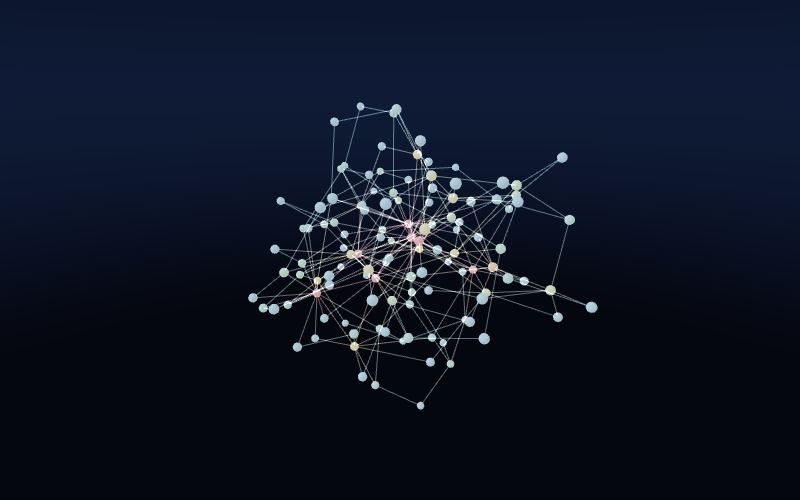
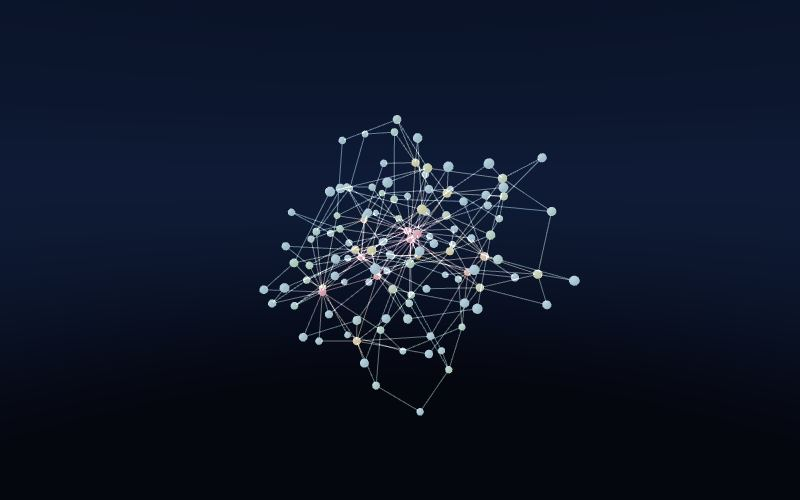
force-sphere network layout; layout changes apply live; links redraw when nodes move
A network's layout or radius changed in the scene now re-lays the nodes at once (from the seed alone) and
bumps the graph version; before, it only applied on reset, and a reset reused version 1 so the links of the
previous run stayed drawn while the nodes moved. The graph layer also redraws links whenever the node
positions differ from the ones they were drawn from. Epidemic and market use force-sphere and have a
Layout control.

Claude-Session: https://claude.ai/code/session_01Uuc6dwJ5Bjk5VjRCLHRDrp

Changed region(s): [[0.3125, 0.21, 0.75, 0.84], [0.3438, 0.69, 0.375, 0.72]]

diff --git a/packages/core/test/layout.test.ts b/packages/core/test/layout.test.ts
@@ -6,7 +6,7 @@ import { Sim, parseScene, type ScriptModule } from '../src/index'
 import { layoutNodes, type LayoutKind } from '../src/layout'
 import { Rng } from '../src/rng'
 
-const KINDS: LayoutKind[] = ['force', 'circle', 'sphere', 'grid', 'random', 'radial']
+const KINDS: LayoutKind[] = ['force', 'force-sphere', 'circle', 'sphere', 'grid', 'random', 'radial']
 // a ring of 12 plus a spoke node and an island, so radial has a root, rings and an unreachable node
 const edges: [number, number][] = [...Array.from({ length: 12 }, (_, i) => [i, (i + 1) % 12] as [number, number]), [0, 12]]
 
@@ -59,4 +59,35 @@ test('controls in a scene are checked', () => {
   assert.ok(ok.ok, ok.ok ? '' : ok.errors.join('\n'))
   assert.ok(!parseScene(JSON.stringify({ ...base, controls: [{ set: 'a.b', options: ['x'] }] })).ok, 'one option is not a choice')
   assert.ok(!parseScene(JSON.stringify({ ...base, controls: [{ options: ['x', 'y'] }] })).ok, 'a control needs a path')
+})
+
+test('force-sphere puts every node on the sphere and keeps linked nodes close together', () => {
+  // a ring of 60: neighbors in the ring should end up next to each other on the shell
+  const n = 60
+  const ring: [number, number][] = Array.from({ length: n }, (_, i) => [i, (i + 1) % n])
+  const radius = 20
+  const forced = layoutNodes(n, ring, 'force-sphere', radius, new Rng(2))
+  for (let i = 0; i < n; i++) assert.ok(Math.abs(Math.hypot(forced[i * 3], forced[i * 3 + 1], forced[i * 3 + 2]) - radius) < 1e-3, `node ${i} is on the shell`)
+  const linked = (p: Float32Array) => ring.reduce((s, [a, b]) => s + Math.hypot(p[a * 3] - p[b * 3], p[a * 3 + 1] - p[b * 3 + 1], p[a * 3 + 2] - p[b * 3 + 2]), 0) / ring.length
+  // the same spiral of points, but with the links scrambled: what an arrangement that ignores the links gives
+  const shuffled = layoutNodes(n, [], 'sphere', radius, new Rng(2))
+  assert.ok(linked(forced) < linked(shuffled) * 0.8, `linked nodes ${linked(forced).toFixed(1)} apart on average, against ${linked(shuffled).toFixed(1)} for an unrelated arrangement`)
+})
+
+test('changing a network\'s layout in the scene moves the nodes at once, and the links are told (a new graph version)', async () => {
+  const p = parseScene(readFileSync(new URL('../../../examples/epidemic/scene.json', import.meta.url), 'utf8'))
+  assert.ok(p.ok, p.ok ? '' : p.errors.join('\n'))
+  const script = (await import(pathToFileURL(new URL('../../../examples/epidemic/contagion.js', import.meta.url).pathname).href)) as ScriptModule
+  const sim = new Sim(structuredClone(p.scene), script)
+  for (let t = 0; t < 5; t++) sim.step()
+  const before = sim.frames()[0]
+  const next = structuredClone(p.scene)
+  next.entities[0].network!.layout = 'circle'
+  sim.setScene(next)
+  const after = sim.frames()[0]
+  assert.ok(after.graph!.version > before.graph!.version, 'links redraw')
+  assert.notDeepEqual([...after.pos.slice(0, 9)], [...before.pos.slice(0, 9)], 'nodes moved')
+  const r = Math.hypot(after.pos[0], after.pos[1], after.pos[2])
+  assert.ok(Math.abs(r - (next.entities[0].network!.radius ?? 20)) < 1e-3, `on the circle of the radius, got ${r}`)
+  assert.equal(sim.takeErrors().length, 0)
 })

diff --git a/packages/core/src/network-world.ts b/packages/core/src/network-world.ts
@@ -4,6 +4,7 @@ import { Defaults, Field, Nums, type NeighborTable } from '@breve/stdlib'
 import { capped } from './limits'
 import { adjacency, makeEdges, type Adjacency, type Edges } from './graph'
 import { layoutNodes } from './layout'
+import { Rng } from './rng'
 import { resolve, type Params, type StateField } from './scene'
 import { Table, type ColumnType, type TableSnapshot } from './store'
 import { type Ctx, type FrameData, type Host, type MetricInput, type World } from './world'
@@ -34,6 +35,8 @@ export class NetworkWorld implements World {
   private layout: Float32Array
   /** Bumped when the links change, so a view knows to redraw them. */
   private version = 1
+  /** The layout settings the current positions were made from, to notice when the scene asks for another. */
+  private layoutKey = ''
   /** Rejected trades since the last look: a trade that would overdraw either side is simply not made. */
   trades = { made: 0, refused: 0 }
   // eslint-disable-next-line @typescript-eslint/no-explicit-any
@@ -66,6 +69,7 @@ export class NetworkWorld implements World {
       this.adj = adjacency(this.n, this.edges)
       this.layout = layoutNodes(this.n, this.edges, net.layout ?? 'force', net.radius ?? 20, host.rng)
     }
+    this.layoutKey = `${net.layout ?? 'force'}|${net.radius ?? 20}`
     const c = this.table.cols
     for (let i = 0; i < this.n; i++) { c.px[i] = this.layout[i * 3]; c.py[i] = this.layout[i * 3 + 1]; c.pz[i] = this.layout[i * 3 + 2] }
     const { Node, Nodes } = this.makeTypes()
@@ -157,7 +161,16 @@ export class NetworkWorld implements World {
   }
 
   sceneChanged(): void {
-    /* the number of nodes and their links only change on reset; rule params are read live */
+    // the number of nodes and their links only change on reset; rule params are read live. Where nodes are drawn is only for the picture,
+    // so a new `layout` or `radius` applies at once (from the scene's seed alone, so forks and reruns place them the same way)
+    const net = this.host.def.network!
+    const key = `${net.layout ?? 'force'}|${net.radius ?? 20}`
+    if (key === this.layoutKey) return
+    this.layoutKey = key
+    this.layout = layoutNodes(this.n, this.edges, net.layout ?? 'force', net.radius ?? 20, new Rng(this.host.scene.seed))
+    const c = this.table.cols
+    for (let i = 0; i < this.n; i++) { c.px[i] = this.layout[i * 3]; c.py[i] = this.layout[i * 3 + 1]; c.pz[i] = this.layout[i * 3 + 2] }
+    this.version++
   }
 
   /** Linked nodes in the fixed-width table `Field` works on, built when the links change. */

diff --git a/packages/core/src/layout.ts b/packages/core/src/layout.ts
@@ -1,13 +1,14 @@
 // @ts-expect-error d3-force-3d ships no type declarations
-import { forceSimulation, forceLink, forceManyBody, forceCenter } from 'd3-force-3d'
+import { forceSimulation, forceLink, forceManyBody, forceCenter, forceRadial } from 'd3-force-3d'
 import type { Rng } from './rng'
 import type { Edges } from './graph'
 
-export type LayoutKind = 'force' | 'circle' | 'sphere' | 'grid' | 'random' | 'radial'
+export type LayoutKind = 'force' | 'force-sphere' | 'circle' | 'sphere' | 'grid' | 'random' | 'radial'
 
 /**
  * Where to draw each node of a network (display only: nothing in the simulation reads these). `force` spreads
- * linked nodes toward each other and unlinked ones apart (the d3-force-3d library, run to rest once);
+ * linked nodes toward each other and unlinked ones apart (the d3-force-3d library, run to rest once); `force-sphere` is the same but every
+ * node is also pulled onto the surface of a sphere, so linked nodes sit near each other on a shell (a globe of neighborhoods);
  * `circle`, `sphere`, `grid` (a cube lattice) and `random` are plain arrangements; `radial` puts the best-linked node
  * in the middle and each ring is one more link away from it. Positions fill a ball of the given radius, three numbers per node.
  */
@@ -74,11 +75,19 @@ export function layoutNodes(n: number, edges: Edges, kind: LayoutKind, radius: n
     .force('charge', forceManyBody().strength(-Math.max(2, radius / 6)))
     .force('center', forceCenter())
     .stop()
+  if (kind === 'force-sphere') sim.force('shell', forceRadial(radius, 0, 0, 0).strength(0.9))
   const ticks = Math.min(300, 60 + Math.ceil(2000 / Math.max(1, Math.sqrt(n))))
   for (let t = 0; t < ticks; t++) sim.tick()
   let big = 0
   for (const d of nodes) big = Math.max(big, Math.hypot(d.x ?? 0, d.y ?? 0, d.z ?? 0))
   const k = big > 0 ? radius / big : 1
   nodes.forEach((d, i) => { out[i * 3] = (d.x ?? 0) * k; out[i * 3 + 1] = (d.y ?? 0) * k; out[i * 3 + 2] = (d.z ?? 0) * k })
+  if (kind === 'force-sphere') {
+    // the pull leaves nodes near the shell, not on it: settle each exactly onto the sphere
+    for (let i = 0; i < n; i++) {
+      const x = out[i * 3], y = out[i * 3 + 1], z = out[i * 3 + 2], len = Math.hypot(x, y, z) || 1
+      out[i * 3] = (x / len) * radius; out[i * 3 + 1] = (y / len) * radius; out[i * 3 + 2] = (z / len) * radius
+    }
+  }
   return out
 }

diff --git a/packages/core/src/scene.ts b/packages/core/src/scene.ts
@@ -76,7 +76,7 @@ export interface NetworkDef {
   /** Explicit links as pairs of node numbers, for topology `edges`. */
   edges?: [number, number][]
   /** How to place nodes for drawing (default `force`). */
-  layout?: 'force' | 'circle' | 'sphere' | 'grid' | 'random' | 'radial'
+  layout?: 'force' | 'force-sphere' | 'circle' | 'sphere' | 'grid' | 'random' | 'radial'
   /** Size of the drawn layout in world units (default 20). */
   radius?: number
   /** How big nodes are drawn, as a multiple of the default. */
@@ -568,7 +568,7 @@ export const sceneSchema = {
               degree: { type: 'number', minimum: 0 },
               rewire: { type: 'number', minimum: 0, maximum: 1 },
               edges: { type: 'array', items: { type: 'array', items: { type: 'integer', minimum: 0 }, minItems: 2, maxItems: 2 } },
-              layout: { enum: ['force', 'circle', 'sphere', 'grid', 'random', 'radial'] },
+              layout: { enum: ['force', 'force-sphere', 'circle', 'sphere', 'grid', 'random', 'radial'] },
               radius: { type: 'number', exclusiveMinimum: 0 },
               size: { type: 'number', exclusiveMinimum: 0, maximum: 20 },
             },

diff --git a/packages/view/src/layers.ts b/packages/view/src/layers.ts
@@ -430,12 +430,23 @@ export class GraphLayer {
     this.mesh.instanceColor!.needsUpdate = true
     this.alpha!.needsUpdate = true
     blend(this.mesh.material as THREE.Material, see)
-    if (g.version !== this.version) this.drawLinks(f)
+    if (g.version !== this.version || !this.linksMatch(f)) this.drawLinks(f)
     if (this.lines) { this.lines.visible = true; this.colorLinks(f) }
+  }
+
+  /** The positions the links were drawn from, to notice when the nodes are somewhere else (a version number alone can repeat across runs). */
+  private linkedAt = new Float32Array(0)
+
+  private linksMatch(f: WorldFrame): boolean {
+    const n = f.count * 3
+    if (!this.lines || this.linkedAt.length !== n) return false
+    for (let i = 0; i < n; i++) if (this.linkedAt[i] !== f.pos[i]) return false
+    return true
   }
 
   private drawLinks(f: WorldFrame): void {
     this.version = f.graph!.version
+    this.linkedAt = f.pos.slice(0, f.count * 3)
     this.disposeLines()
     const e = f.graph!.edges
     const pos = new Float32Array(e.length * 3)

diff --git a/docs/script-api.md b/docs/script-api.md
@@ -141,7 +141,7 @@ Grid shape and seed only take effect when the simulation is reset. Params (rule 
     "topology": "smallworld",             // "smallworld" (default), "random", "scalefree", "ring", "complete", or "edges" with an explicit list
     "degree": 6,                          // average links per node
     "rewire": 0.08,                       // small worlds: share of links rewired at random
-    "layout": "force",                    // how nodes are placed for drawing: "force", "circle", "sphere", "grid", "random" or "radial"
+    "layout": "force",                    // how nodes are placed for drawing: "force", "force-sphere", "circle", "sphere", "grid", "random" or "radial"
     "radius": 24                          // size of the drawn layout
   },
   "controller": "contagion.js"
@@ -152,7 +152,7 @@ Starting state is the script's `init` (a node at a time) or `initAll` (all at on
 
 A node's `neighbors` are the nodes it is linked to. `act` works exactly as it does for lattice cells: it reads `self` and `neighbors` (`neighbors.status` is a list of numbers) and returns the node's **new state**, applied for everyone at once. That is why one script can run on a grid and on a graph (see `examples/epidemic` and `examples/epidemic-grid`). `self.degree` is the number of links. Positions come from the layout and are only for drawing.
 
-**Layouts** (display only). `force` is the d3-force-3d library run to rest: linked nodes pull together, others push apart, so clusters show. `circle` and `sphere` spread nodes evenly, `grid` fills a cube lattice, `random` scatters them through a ball, and `radial` puts the best-linked node in the middle with one ring per link of distance from it. `examples/layouts` has a button for each.
+**Layouts** (display only). `force` is the d3-force-3d library run to rest: linked nodes pull together, others push apart, so clusters show. `force-sphere` is the same with every node also pulled onto the surface of a sphere of `radius`, so linked nodes sit near each other on a shell (the epidemic and market examples use it). `circle` and `sphere` spread nodes evenly, `grid` fills a cube lattice, `random` scatters them through a ball, and `radial` puts the best-linked node in the middle with one ring per link of distance from it. `examples/layouts` has a button for each.
 
 ### About: a description over the simulation
 
